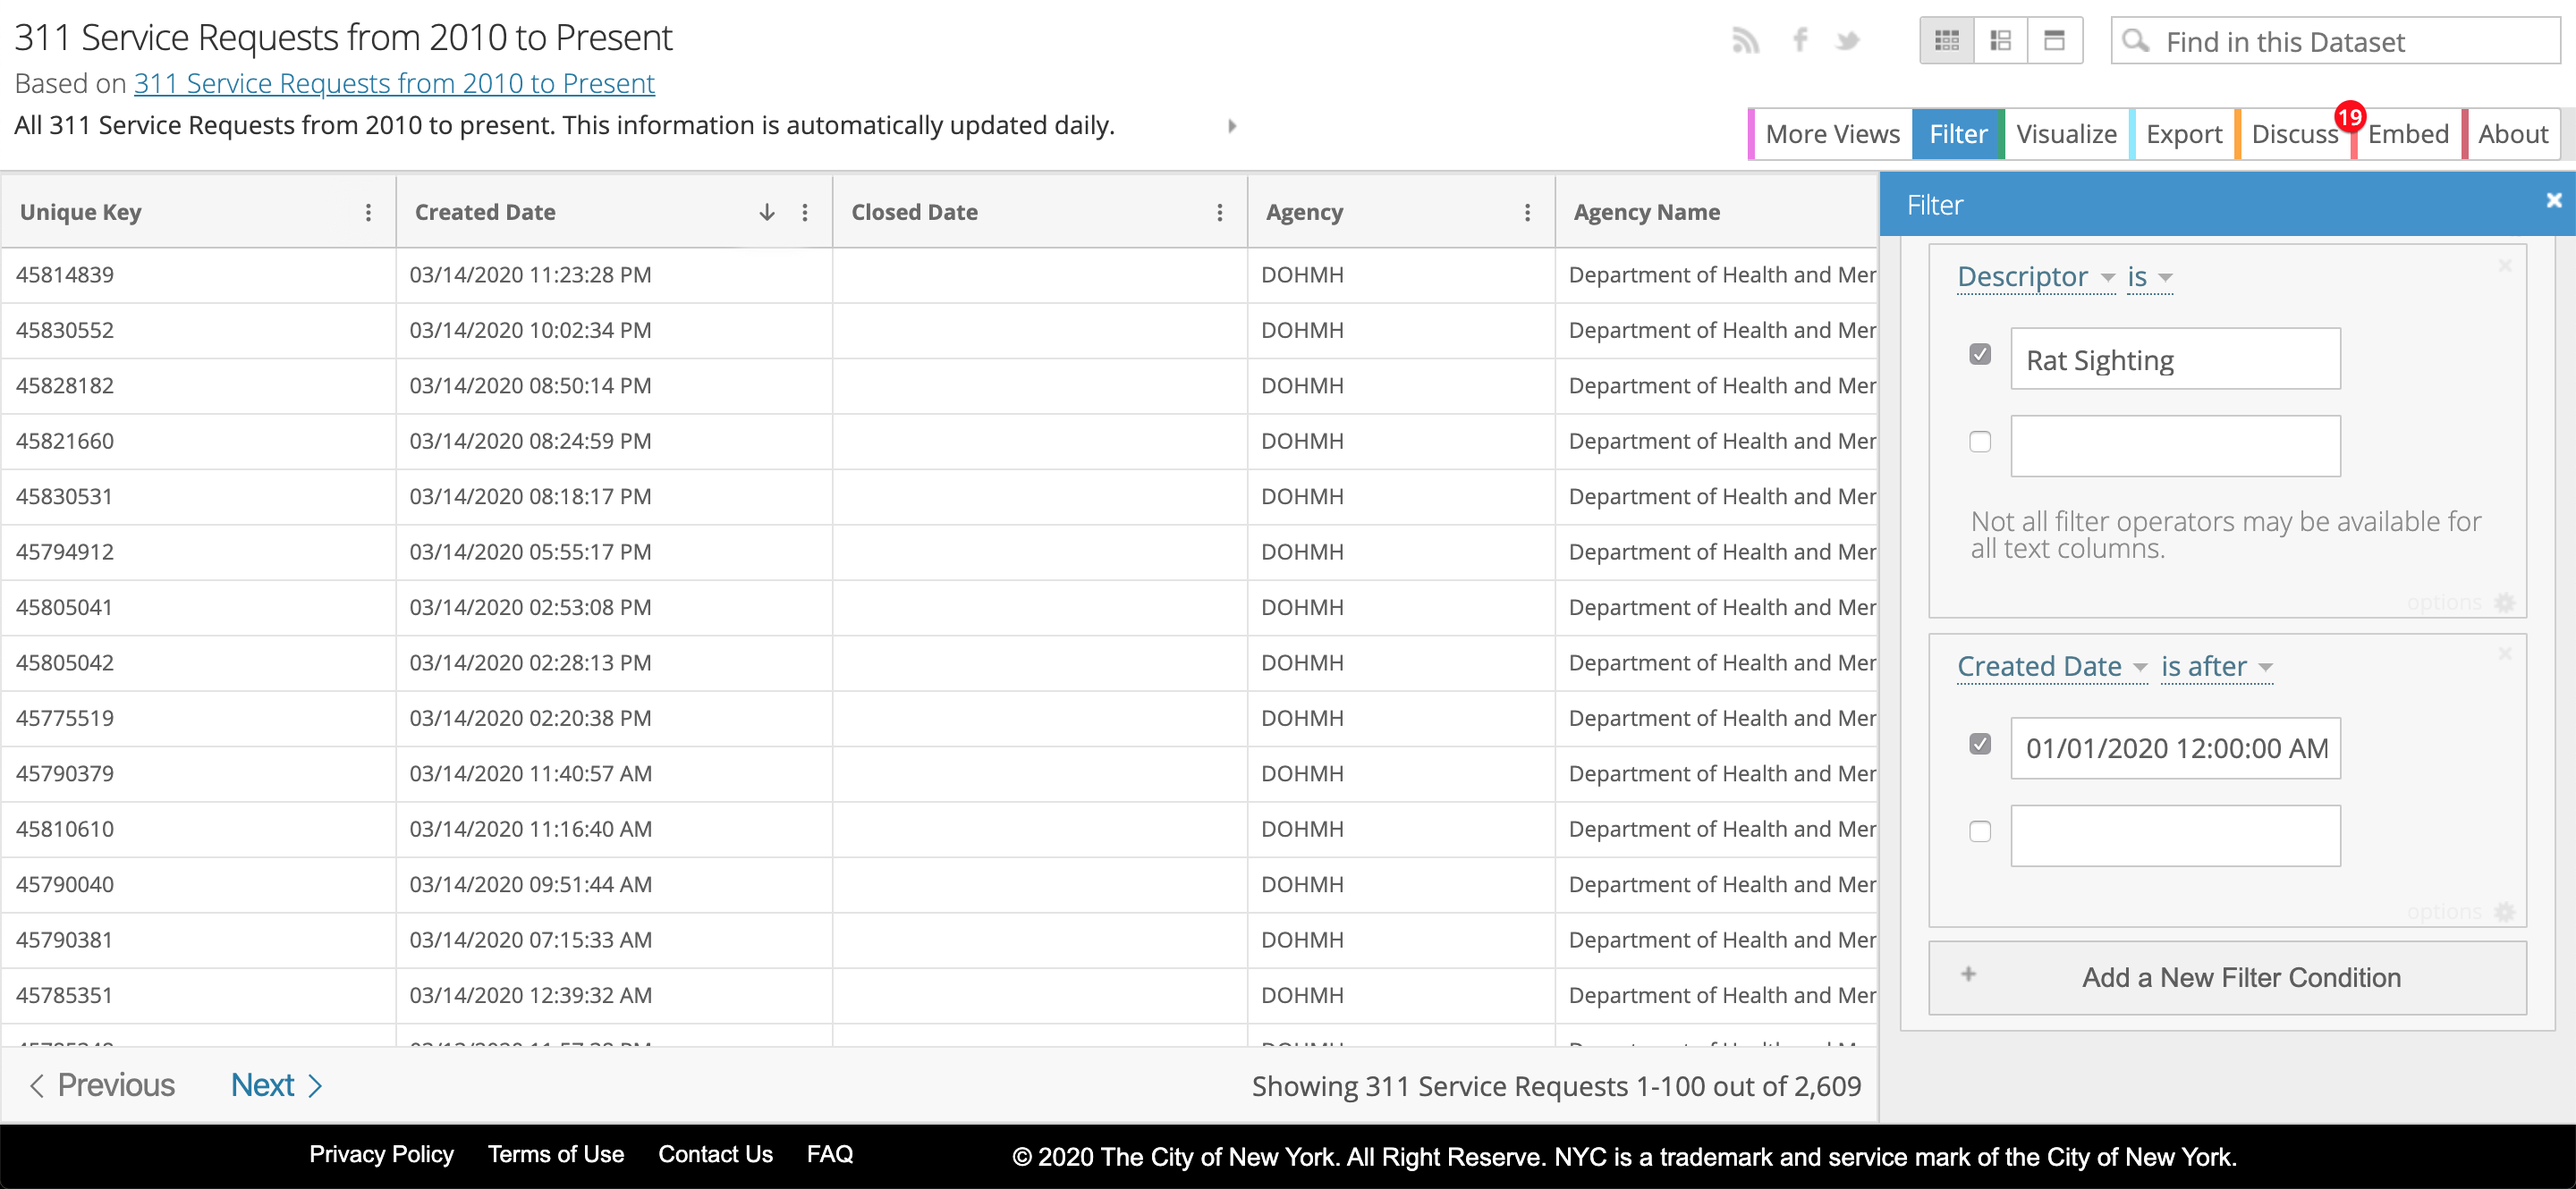
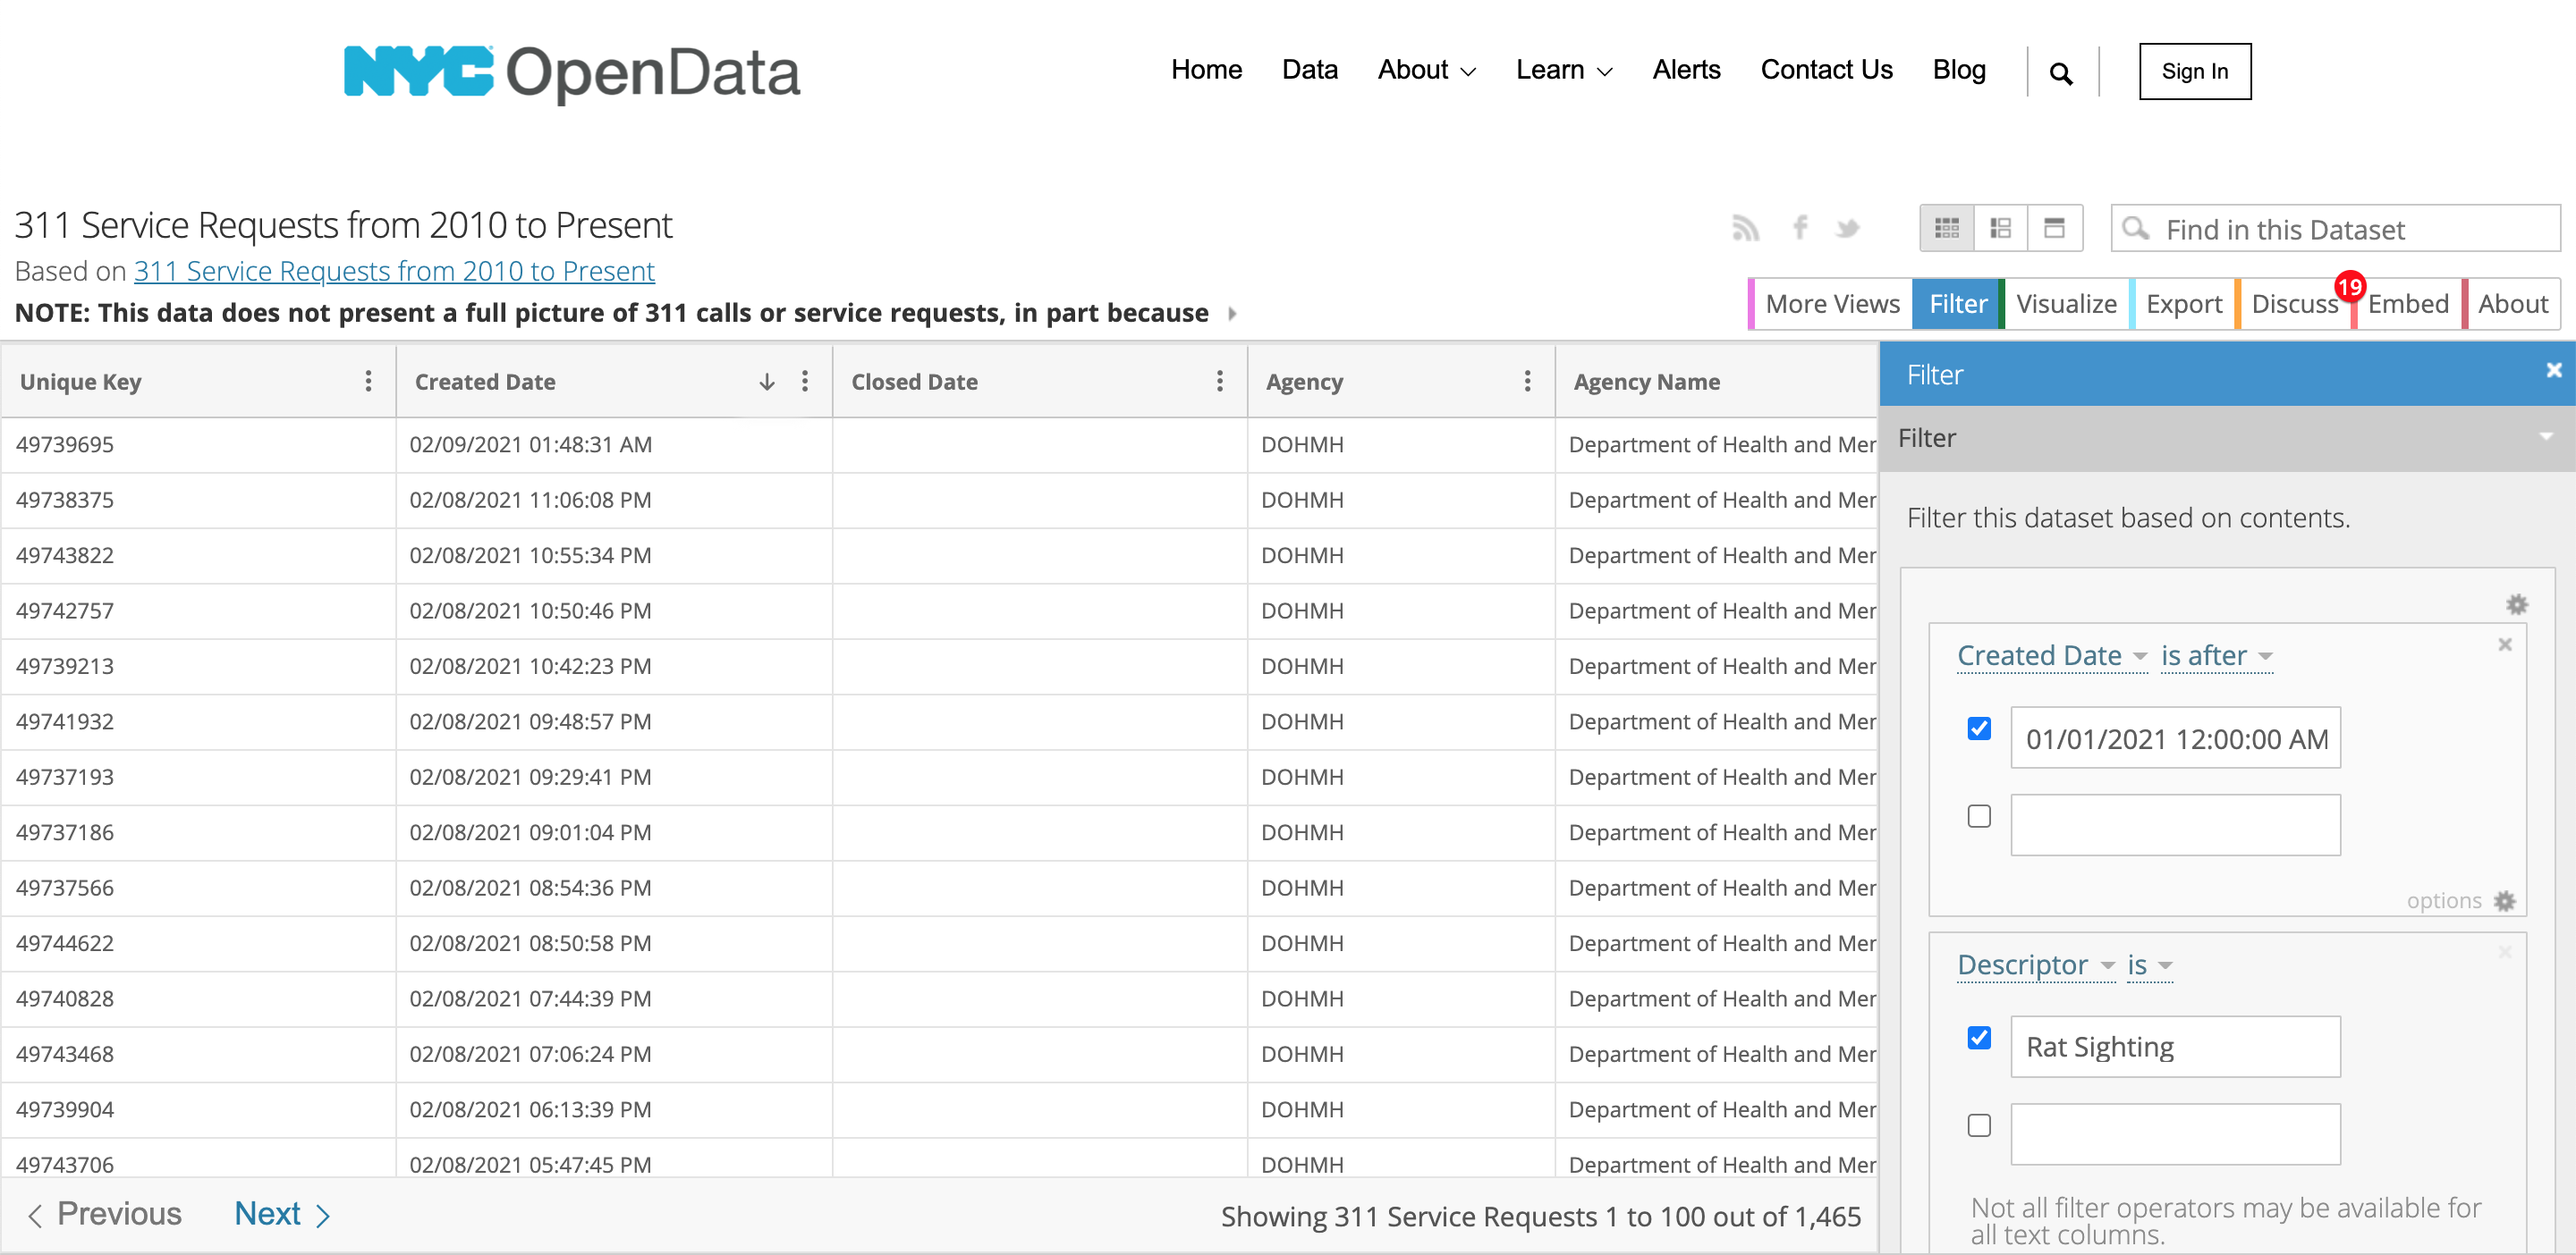
simplify for 2021

diff --git a/09_WebMapping2.md b/09_WebMapping2.md
@@ -14,7 +14,7 @@ ___
 ![311 Service Requests]
 ___
 
-View the data, and filter it by `Descriptor: Rat Sightings` and `Created Date is after 01/01/2020`. This will give us rat sightings in NYC since the beginning of the semester, around 2,609 of them (and counting...). Export the data as a CSV file, and call it `rat_sightings.csv`.
+View the data, and filter it by `Descriptor: Rat Sightings` and `Created Date is after 01/01/2021`. This will give us rat sightings in NYC since the beginning of the semester, around 2,609 of them (and counting...). Export the data as a CSV file, and call it `rat_sightings.csv`.
 
 ___
 ![Rat filter]
@@ -64,7 +64,7 @@ ___
 
 On the left side of the screen in the `Layers` tab is a list of all the layers currently used by this map style. These are, first, tilesets. But they are also embedded style information. We'll see how this works by creating our own layer.
 
-In the upper left corner of the panel, there is a `+` button that says `Add new layer` on hover. When you click it, you'll see a list of tilesets. `Mapbox streets v7` and `Mapbox terrain v2` are active, because these are used by the `Dark` template. If you click one, it will expand to show multiple types of data, including polygons, lines, and points, any of which can be incorporated into layers on a map. However, we're going to scroll down and look at the unused sources, where you should see the `rat_sightings` (with a random extension) tileset created earlier. If you click it, you'll see just one kind of data, which is points, and if you click _that_, it will add the data to the map.
+In the upper left corner of the panel, there is a `+` button that says `Add new layer` on hover. When you click it, and select `Source`, you'll see a list of tilesets. `Mapbox streets v7` and `Mapbox terrain v2` are active, because these are used by the `Dark` template. If you click one, it will expand to show multiple types of data, including polygons, lines, and points, any of which can be incorporated into layers on a map. However, we're going to scroll down and look at the unused sources, where you should see the `rat_sightings` (with a random extension) tileset created earlier. If you click it, you'll see just one kind of data, which is points, and if you click _that_, it will add the data to the map.
 
 ___
 ![Choosing rat_sightings]
@@ -112,12 +112,8 @@ The heatmap should occlude the sightings markers in the previous layer. That wil
 
 ## Start a web project
 
-Follow the same steps as in the [previous tutorial](8_WebMapping1.md):
+Follow the same steps as in the [previous tutorial](8_WebMapping1.md): 
 
-- Create a new repository on your GitHub account, called `nyc_rats`, and make sure you initialize it with a README
-- Go into the repository settings and make the master branch of your repository a Github page
-- Clone a local copy of this repository to your computer using [git](https://thenewstack.io/tutorial-git-for-absolutely-everyone/) in the terminal:  
-`git clone https://github.com/yourusername/nyc_rats`
 - Create the empty files `index.html`, `style.css`, and `map.js` with your editor (Sublime Text)
 
 Put this in your `index.html` file:
@@ -132,9 +128,9 @@ Put this in your `index.html` file:
     <meta http-equiv='Pragma' content='no-cache' />
     <meta http-equiv='Expires' content='0' />    
     <meta name='viewport' content='initial-scale=1,maximum-scale=1,user-scalable=no' />
-    <link href='https://api.tiles.mapbox.com/mapbox-gl-js/v1.10.0/mapbox-gl.css' rel='stylesheet' />     
+    <link href='https://api.mapbox.com/mapbox-gl-js/v2.1.1/mapbox-gl.css' rel='stylesheet' />     
     <link href='style.css' rel='stylesheet' />
-    <script src='https://api.tiles.mapbox.com/mapbox-gl-js/v1.10.0/mapbox-gl.js'></script>
+    <script src='https://api.mapbox.com/mapbox-gl-js/v2.1.1/mapbox-gl.js'></script>
 </head>
 <body>
     <div id='map'></div>
@@ -206,19 +202,9 @@ geolocate.on('geolocate', function(event) {
 
 Open `index.html` with your browser, and you should see the map style you created in Mapbox Studio. If not, check the javascript console for errors.
 
-Now add them to your repository, commit, and push your changes:  
-`git add index.html style.css map.js`  
-`git commit -m 'initial import'`  
-`git push`  
-
-And view the map online at http://YOURUSERNAME.github.io/nyc_rats
-
-(Note: if you are getting a 404, or your page is otherwise not showing up, make sure your repository is set to be viewable as a Github Pages website. In the `Settings` of your repository, scroll down to the `Github Pages` section, and if the source reads `None`, then select `master branch` and click `Save`. Your site should now be viewable)
-
-
 ## Place-based interactivity
 
-This map functions well as a reference when viewed on the computer. However, when you view it on a mobile device with your geolocated position it opens up additional possibilities. When you're walking in the streets of NYC, you might not only want to see the heatmap, but a locator that points to the nearest location of a rat sighting. By building this, we will learn how to do map calculations on the fly.
+This map functions well as a reference when viewed on the computer. However, when you view it on a mobile device with your geolocated position it opens up additional possibilities. If you were walking in the streets of NYC, for instance, you might not only want to see the heatmap, but a locator that points to the nearest location of a rat sighting. By building this, we will learn how to do map calculations on the fly.
 
 Using Mapbox Studio, we created two layers—one that is our heat map, and a hidden layer that's just markers for individual rat sightings. In javascript, our `map` object has a function, `queryRenderedFeatures`, through which we can retrieve information about those individual sightings. For now, we'll put this inside of a `click` handler like the one we used in the previous tutorial. Add this to the bottom of your javascript:
 
@@ -256,7 +242,7 @@ To find the closest feature to the clicked location, we will cycle through all t
 
 ```html
 
-<script src='https://cdnjs.cloudflare.com/ajax/libs/Turf.js/5.1.5/turf.min.js'></script>
+<script src='https://unpkg.com/@turf/turf/turf.min.js'></script>
 
 ```
 
@@ -402,14 +388,14 @@ geolocate.on('geolocate', function(event) {
     let current_location = [event.coords.longitude, event.coords.latitude]
 ```
 
-Now the map will center on the user's position and point to the nearest rat sighting, assuming there is one nearby. Try this out on your mobile device.
+Now the map will center on the user's position and point to the nearest rat sighting, assuming there is one nearby. 
 
 This is as far as we'll go in this tutorial. But from here, we might want to make the arrow disappear if there are no rat sightings nearby, display the distance to the sighting, add alerts, or other functionality. Additional layers that we create through Mapbox studio might overlay other types of information to help us contextualize what we're seeing, and these layers could be toggled on and off by the user. Think about what might be needed, both in terms of rat sightings and for ways in which you might repurpose this model, and we will discuss in class.
 
 
 ## Deliverables
 
-Submit the github URL to your working rat map.
+Submit a zipped folder containing the files for your working webmap (HTML, CSS, JS) to Canvas.
 
 Extra credit: repurpose this code with a different dataset.
 
@@ -422,7 +408,7 @@ Curious about rat communication? Brian House was too. Check out the "New York" s
 ______________________________________________________________________________________________________________
 
 
-Tutorial written by Brian House for Mapping for Architecture, Urbanism, and the Humanities ([Fall 2018](https://github.com/brianhouse/mapping-architecture-urbanism-humanities)). Edited by Emily Fuhrman for Spring 2020.
+Tutorial written by Brian House for Mapping for Architecture, Urbanism, and the Humanities ([Fall 2018](https://github.com/brianhouse/mapping-architecture-urbanism-humanities)). Edited by Emily Fuhrman for Spring 2021.
 
 
 
